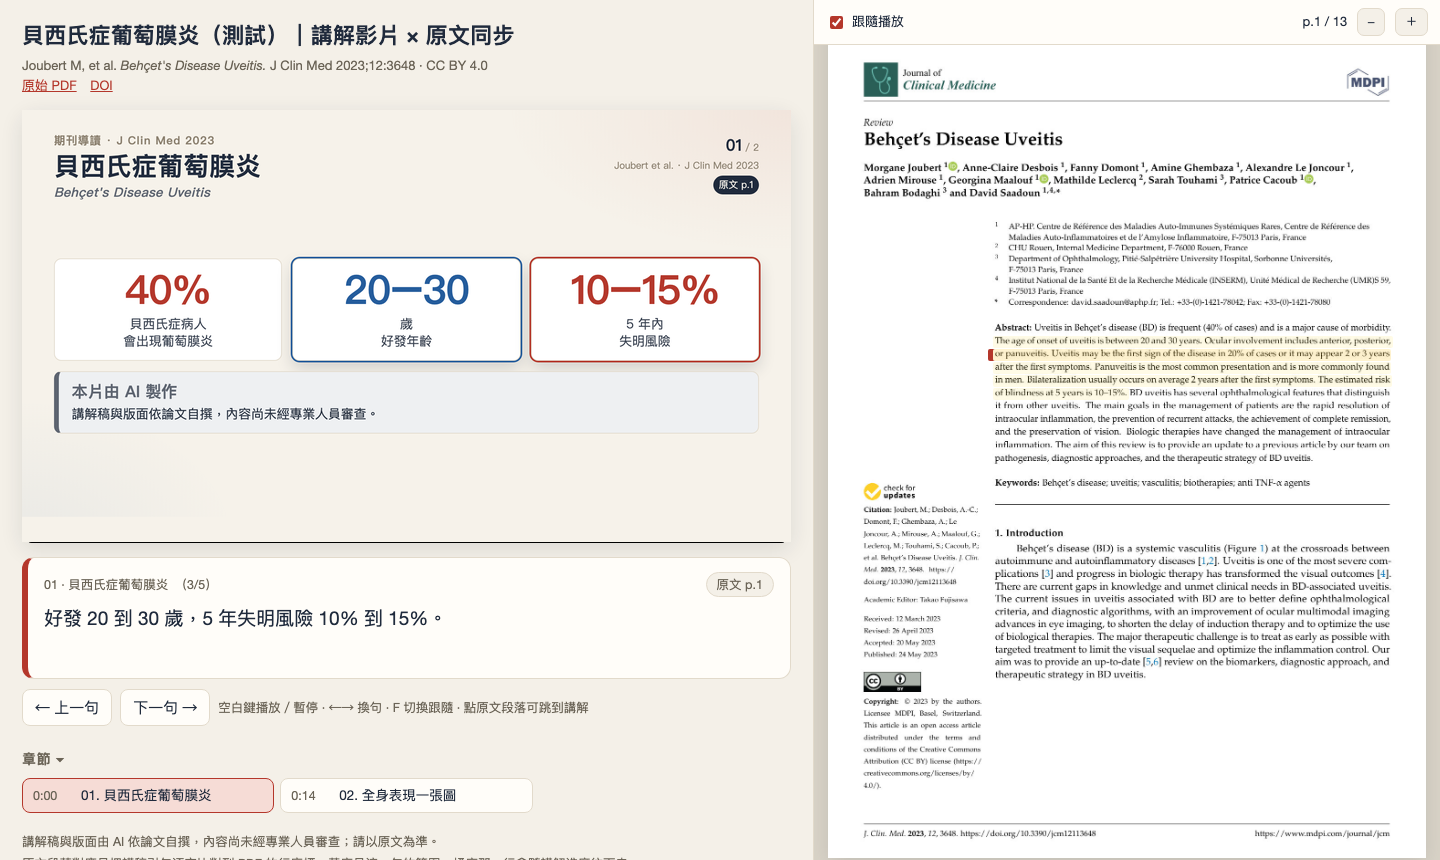
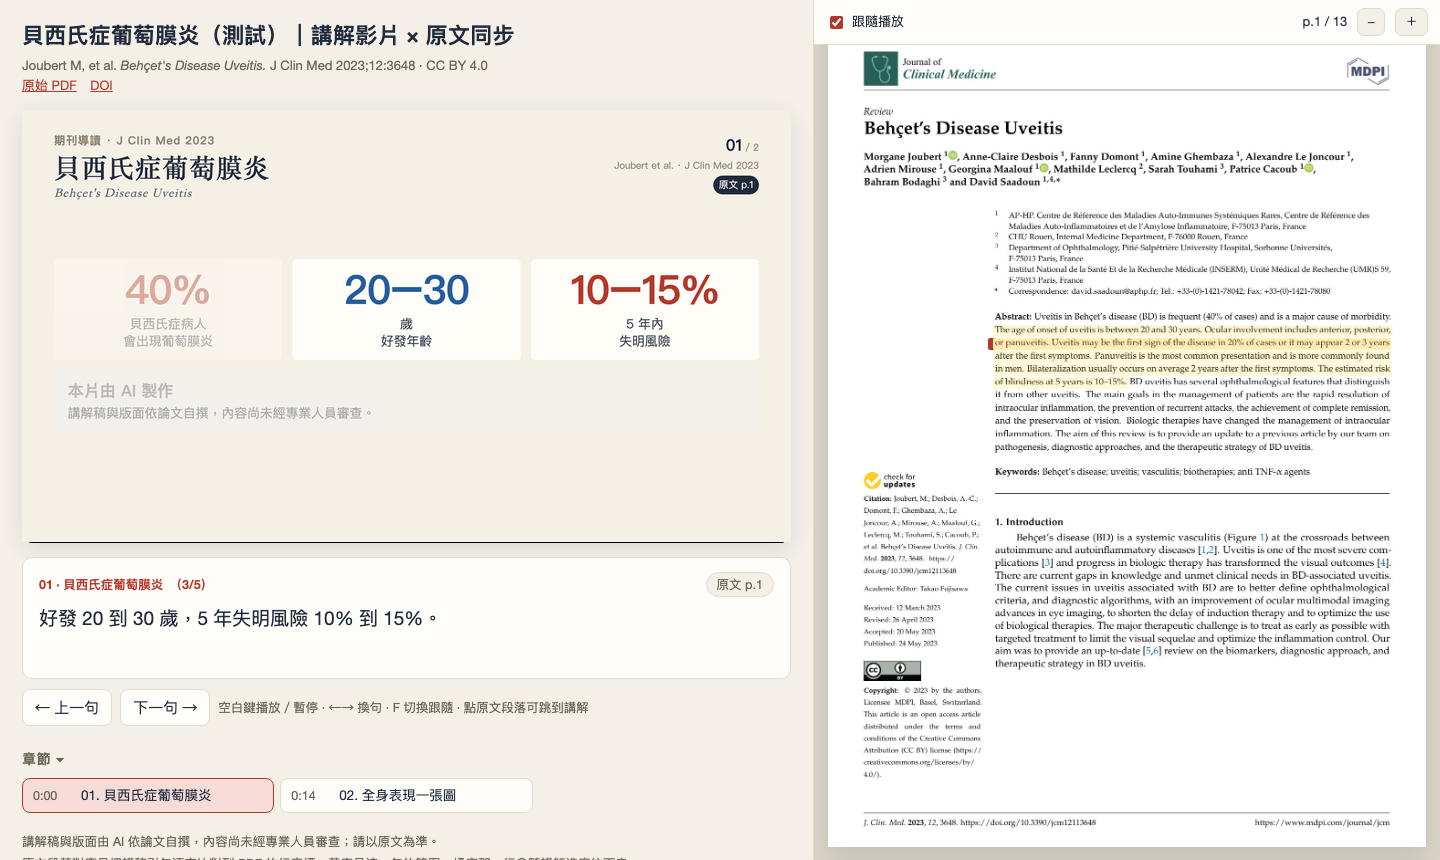
feat: 生產原則——簡潔、重點清楚、沒有 AI 味
- references/style-principles.md：濃縮 huashu-design（反 AI slop）、video-production（教學與念稿風格）、exam-explainer-video（配音後製）
- 投影片：焦點以外的元素自動變淡；拿掉卡片左色條、漸層背景、⚠ 符號；大標改襯線字
- 配音：voice.post=warm 預設套溫和後製，合成時全片音量統一到約 -18.5 LUFS
- 聊天提示詞、講稿格式、檢查清單、README 同步更新

diff --git a/templates/player.html b/templates/player.html
@@ -34,7 +34,8 @@ header .meta{color:var(--mute);font-size:13px;margin-top:4px}
 header .meta a{margin-right:10px}
 .vid{margin-top:14px;border-radius:12px;overflow:hidden;background:#000;box-shadow:var(--shadow)}
 video{display:block;width:100%;aspect-ratio:16/9;background:#000}
-.now{margin-top:14px;background:var(--panel);border:1px solid var(--line);border-left:6px solid var(--accent);border-radius:12px;padding:14px 16px}
+.now{margin-top:14px;background:var(--panel);border:1px solid var(--line);border-radius:10px;padding:14px 16px}
+.now .k span:first-child{color:var(--accent);font-weight:600}
 .now .k{font-size:12.5px;color:var(--mute);display:flex;justify-content:space-between;gap:8px;align-items:center}
 .now .t{font-size:19px;line-height:1.6;margin-top:6px;min-height:3.2em}
 .pgbtn{border:1px solid var(--line);background:var(--bg);border-radius:999px;padding:2px 10px;cursor:pointer;font-size:12.5px;white-space:nowrap}

diff --git a/scripts/render.py b/scripts/render.py
@@ -10,14 +10,11 @@ TONES = {
 
 CSS = """
 *{margin:0;padding:0;box-sizing:border-box}
-body{width:1920px;height:1080px;overflow:hidden;background:#f6f2ea;color:#1f2a3c;
- font-family:'PingFang TC','Noto Sans TC','Heiti TC','Microsoft JhengHei','Helvetica Neue',sans-serif;position:relative}
-body:before{content:"";position:absolute;inset:0;background:
- radial-gradient(1200px 600px at 100% 0%,rgba(180,55,43,.07),transparent 60%),
- radial-gradient(900px 600px at 0% 100%,rgba(36,92,156,.06),transparent 60%)}
+body{width:1920px;height:1080px;overflow:hidden;background:#f5f0e6;color:#1f2a3c;
+ font-family:'PingFang TC','Noto Sans TC','Heiti TC','Microsoft JhengHei',sans-serif;position:relative}
 .head{position:absolute;left:80px;right:80px;top:56px;display:flex;justify-content:space-between;align-items:flex-start;gap:40px}
 .kick{font-size:28px;letter-spacing:.06em;color:#8a7f6e;font-weight:600}
-h1{font-size:64px;font-weight:700;line-height:1.15;margin-top:8px;letter-spacing:.01em}
+h1{font-size:66px;font-weight:700;line-height:1.15;margin-top:8px;letter-spacing:.02em;font-family:'Songti TC','Noto Serif TC','Source Han Serif TC',serif}
 h1 small{display:block;font-size:32px;font-weight:500;color:#5d6470;margin-top:10px;font-style:italic}
 .meta{text-align:right;font-size:24px;color:#8a7f6e;line-height:1.6;white-space:nowrap}
 .meta b{font-size:40px;color:#1f2a3c;font-weight:700;font-variant-numeric:tabular-nums}
@@ -26,19 +23,19 @@ h1 small{display:block;font-size:32px;font-weight:500;color:#5d6470;margin-top:1
 .stage.tall{top:236px;bottom:120px}
 .row{display:flex;gap:26px;align-items:stretch}
 .hid{opacity:0}
-.card{background:var(--bg);border:2px solid #e3dccf;border-left:12px solid var(--c);border-radius:18px;padding:24px 32px;flex:var(--w) 1 0;min-width:0}
+.card{background:var(--bg);border-radius:10px;padding:26px 34px;flex:var(--w) 1 0;min-width:0}
 .card h3{font-size:40px;font-weight:700;color:var(--c);line-height:1.25}
 .card p{font-size:32px;line-height:1.45;margin-top:8px;color:#26303f}
 .card p b,.note b{color:var(--c)}
-.focus{box-shadow:0 0 0 4px var(--c),0 18px 40px rgba(31,42,60,.18);border-color:var(--c)}
-.stat{flex:var(--w) 1 0;text-align:center;background:#fff;border:2px solid #e3dccf;border-radius:18px;padding:26px 18px;display:flex;flex-direction:column;justify-content:center}
+.dim{opacity:.38}
+.stat{flex:var(--w) 1 0;text-align:center;background:#fffdf8;border-radius:10px;padding:26px 18px;display:flex;flex-direction:column;justify-content:center}
 .stat .n{font-size:100px;font-weight:800;color:var(--c);line-height:1;font-variant-numeric:tabular-nums;letter-spacing:-.02em}
 .stat .l{font-size:32px;line-height:1.35;margin-top:14px;color:#3a4352}
 .chip{flex:1 1 0;white-space:nowrap;text-align:center;font-size:50px;font-weight:800;color:var(--c);background:var(--bg);border:3px solid var(--c);border-radius:999px;padding:22px 10px}
 .arrow{flex:0 0 auto;align-self:center;font-size:64px;color:#9a8f7c;font-weight:700}
-.note{flex:1 1 0;background:#fff6dd;border:2px dashed #c99a2e;border-radius:18px;padding:22px 30px;font-size:34px;line-height:1.45;color:#5a3d00;display:flex;align-items:center;gap:18px}
-.note:before{content:"⚠";font-size:48px}
-.group{flex:var(--w) 1 0;background:#fff;border:2px solid #e3dccf;border-radius:18px;padding:24px 34px;display:flex;flex-direction:column;gap:18px;justify-content:center}
+.note{flex:1 1 0;background:#f6ead2;border-radius:10px;padding:22px 30px;font-size:34px;line-height:1.45;color:#5a3d00;display:flex;align-items:baseline;gap:22px}
+.note:before{content:"注意";flex:0 0 auto;font-size:26px;font-weight:700;letter-spacing:.2em;color:#a36a00}
+.group{flex:var(--w) 1 0;background:#fffdf8;border-radius:10px;padding:24px 34px;display:flex;flex-direction:column;gap:18px;justify-content:center}
 .group>h4{font-size:34px;color:#5d6470;font-weight:700}
 .stack{flex:var(--w) 1 0;display:flex;flex-direction:column;gap:20px;min-width:0}
 .stack>.card{flex:1 1 auto}
@@ -54,14 +51,13 @@ h1 small{display:block;font-size:32px;font-weight:500;color:#5d6470;margin-top:1
 .pts .bx i.o{background:transparent;border:3px dashed #d8cfbf}
 .pts .v{width:120px;font-size:40px;font-weight:800;color:var(--c);text-align:right}
 .bar.focus,.pts.focus{background:var(--bg)}
-.quiz{flex:1 1 0;background:#fff;border:2px solid #e3dccf;border-radius:18px;padding:24px 30px;display:grid;grid-template-columns:1fr 132px;gap:6px 24px;align-items:center}
+.quiz{flex:1 1 0;background:#fffdf8;border-radius:10px;padding:24px 30px;display:grid;grid-template-columns:1fr 132px;gap:6px 24px;align-items:center}
 .quiz .src{grid-column:1/3;font-size:28px;color:#8a7f6e;font-weight:600}
 .quiz .stem{font-size:36px;font-weight:700;line-height:1.35}
 .quiz .ans{grid-row:2/4;grid-column:2;width:132px;height:132px;border-radius:50%;background:#b4372b;color:#fff;font-size:60px;font-weight:800;display:flex;align-items:center;justify-content:center}
 .quiz .why{font-size:31px;line-height:1.45;color:#26303f}
 .quiz .why b{color:#b4372b}
-.quiz.focus{box-shadow:0 0 0 4px #b4372b,0 18px 40px rgba(31,42,60,.18)}
-.fig{flex:var(--w) 1 0;min-width:0;background:#fff;border:2px solid #e3dccf;border-radius:18px;padding:16px;display:flex;flex-direction:column;align-items:center;justify-content:center;gap:10px}
+.fig{flex:var(--w) 1 0;min-width:0;background:#fff;border-radius:10px;padding:16px;display:flex;flex-direction:column;align-items:center;justify-content:center;gap:10px}
 .fig img{max-width:100%;max-height:520px;object-fit:contain}
 .fig figcaption{font-size:24px;color:#6b6457}
 .svg{flex:var(--w) 1 0;display:flex;align-items:center;justify-content:center}
@@ -77,7 +73,8 @@ def tone_vars(t, w=1):
 def render_el(el, vis, foc, proj):
     k, i = el["k"], el.get("id", "")
     shown = i in vis
-    cls = ("" if shown else " hid") + (" focus" if i in foc else "")
+    # 焦點以外、已出現的元素變淡；focus 為空（例如整幕總結）時全部保持清楚
+    cls = (" hid" if not shown else (" focus" if i in foc else (" dim" if foc and i else "")))
     if k == "card":
         body = f"<p>{el['b']}</p>" if el.get("b") else ""
         return f'<div class="card{cls}" {tone_vars(el.get("tone", "ink"), el.get("w", 1))}><h3>{el["h"]}</h3>{body}</div>'

diff --git a/scripts/pe.py b/scripts/pe.py
@@ -43,7 +43,7 @@ DEFAULT_CFG = {
     "pdf": "src/paper.pdf",
     "pdf_body": {"header": 0.06, "footer": 0.94, "end_page": None, "stop_at_references": True},
     "page_images": {"scale": 2.2},
-    "voice": {"engine": "say", "voice": "Meijia", "rate": 205, "command": None, "files_dir": "voice-in"},
+    "voice": {"engine": "say", "voice": "Meijia", "rate": 205, "command": None, "files_dir": "voice-in", "post": "warm"},
     "video": {"fps": 30, "gap": 0.40, "gap_scene_end": 0.95, "lead": 0.30, "xfade": 0.40, "xfade_scene": 0.55},
     "disclaimer": "講解稿與版面由 AI 依論文自撰，內容尚未經專業人員審查；請以原文為準。",
     "publish": {"include_pdf": True, "max_mb": 15},
@@ -329,6 +329,15 @@ def synth(p, st, raw):
     die(f"未知的 voice.engine：{eng}（say／edge／command／files／none）")
 
 
+# 溫和後製（取自 exam-explainer-video 的護耳鏈，去掉降調）：去低頻、去齒音、切刺耳高頻、補一點暖、輕壓縮
+POST = {
+    "none": "",
+    "warm": ("highpass=f=60,deesser=i=0.5:m=0.5:f=0.45,lowpass=f=9200,"
+             "equalizer=f=150:t=q:w=1:g=2,equalizer=f=5000:t=q:w=1.2:g=-3,"
+             "acompressor=threshold=-22dB:ratio=2:attack=5:release=80,"),
+}
+
+
 def cmd_voice(p, only=None):
     vc = p.cfg["video"]
     fps = vc["fps"]
@@ -348,8 +357,9 @@ def cmd_voice(p, only=None):
         tail = vc["gap_scene_end"] if st["last"] else vc["gap"]
         d = lead + dur(src) + tail
         d = round(d * fps + 0.4999) / fps           # 對齊影格邊界，影音才不會累積漂移
+        post = POST.get(p.cfg["voice"].get("post", "warm"), "")
         run([tool("ffmpeg"), "-loglevel", "error", "-y", "-i", str(src), "-af",
-             f"adelay={int(lead * 1000)}:all=1,apad,atrim=0:{d:.6f},aresample=44100", "-ac", "2",
+             f"{post}adelay={int(lead * 1000)}:all=1,apad,atrim=0:{d:.6f},aresample=44100", "-ac", "2",
              str(ad / f"slide_{n:02d}.wav")])
         print(f"{n:02d} {d:6.2f}s  {st['t'][:30]}")
 
@@ -426,8 +436,10 @@ def cmd_video(p):
     run([ff, "-loglevel", "error", "-y", "-f", "concat", "-safe", "0", "-i", str(p.tmp / "concat_a.txt"),
          "-c", "pcm_s16le", str(p.tmp / "audio_full.wav")])
     out = p.vid / "video.mp4"
+    af = (["-af", "loudnorm=I=-18.5:TP=-1.8:LRA=9,alimiter=limit=0.9,aresample=44100"]
+          if p.cfg["voice"].get("post", "warm") != "none" else [])   # 全片統一音量
     run([ff, "-loglevel", "error", "-y", "-i", str(p.tmp / "video_only.mp4"), "-i", str(p.tmp / "audio_full.wav"),
-         "-map", "0:v", "-map", "1:a", "-c:v", "copy", "-c:a", "aac", "-b:a", "192k",
+         "-map", "0:v", "-map", "1:a", *af, "-c:v", "copy", "-c:a", "aac", "-b:a", "192k",
          "-movflags", "+faststart", "-shortest", str(out)])
     real = [round(dur(c) * fps) / fps for c in clips]   # 時間軸用實際片長，不用推算
     t, timeline = 0.0, []

diff --git a/references/style-principles.md b/references/style-principles.md
@@ -1,0 +1,64 @@
+# 生產原則：簡潔、重點清楚、沒有 AI 味
+
+濃縮自三個 skill：huashu-design（反 AI slop、動畫品味）、video-production（教學風格、TTS 寫法）、exam-explainer-video（配音後製）。**寫講稿前讀一次，交付前用最後的自檢表過一次。**
+
+## 一句話原則
+
+> **觀眾沒讀過這篇論文。每一幕只讓他記住一件事，其他都是干擾。**
+
+## 1. 內容：先直覺、再數字、少即是多
+
+- **一幕一個重點，一句一件事。** 去掉某個元素、畫面不會變差，就刪掉它。
+- **先講結論，再給數字**；數字只留會推進故事的那幾個，其他換成白話（「約一半」「比對照組多三成」）。
+- **術語第一次出現就用一句白話解釋**，之後同一支影片不再解釋；英文縮寫第一次念全名，之後改中文。
+- **用論文的真圖表**（`pe.py crop`），不要自己畫示意插圖。沒有合適的圖，就用一行大字講清楚。
+- **不編數字、不編引言**：每個數字都要有原文錨點；論文沒寫的，寧可不說。
+- **結尾用「我」講心得**（我讀完學到什麼、會怎麼用），不要旁觀者式的空泛總評。
+
+## 2. 畫面：克制，把重點標出來
+
+- **焦點＝其他元素變淡**：這句在講的元素保持清楚，其餘自動降到 40% 透明度。工具已內建：`focus` 省略時＝這句新出現的元素；整幕總結時設 `"focus": []` 讓全部恢復。
+- **不要 AI 味的視覺簽名**：
+
+| 不要 | 為什麼 | 改成 |
+|---|---|---|
+| 圓角卡片＋左側彩色粗邊 | AI 預設產物，沒有任何識別度 | 淡色底＋標題字重對比，或乾脆不分卡片 |
+| 滿版漸層背景 | 「科技感」萬用公式 | 帶一點暖色的單一底色 |
+| emoji 當圖示（🚀 ✨ 💡 ⚠） | 不專業的填空 | 文字標籤（「注意」「陷阱」） |
+| 每個標題都配圖示 | 像玩具 | 不配 |
+| 自己畫的 SVG 人物、器官、場景 | 一眼就是 AI 畫的 | 論文原圖，或一行大字 |
+| 假數據裝飾的數字卡 | 「data slop」 | 只放論文裡真的有、而且這幕要講的數字 |
+
+- **一個細節做到 120%，其他 80%**：例如整支影片只有關鍵結果那一幕用大數字，其他幕用卡片或條列。
+- **字型層次**：大標用襯線（宋體／Noto Serif TC），內文用無襯線；數字用等寬數字。
+- **一個強調色貫穿**（預設紅棕），其他顏色只用來分類，不用來裝飾。
+
+## 3. 節奏：讓觀眾來得及看見
+
+- **關鍵數字出現前停半拍**：重要數字單獨一句，念完才出現下一個元素。
+- **均勻節奏是技術示範，有快有慢才是敘事**：背景與方法可以快，主要結果與限制要慢。
+- **收尾停在最後一幀**，不要淡出成黑畫面（工具預設幕末停 0.95 秒）。
+
+## 4. 念稿：寫給耳朵聽
+
+- **一句 15–35 字**，超過就拆；逗號只放在自然換氣點，太密會變成碎念。
+- **數字、百分比、單位、符號一律寫成念法**：40% →「百分之四十」；HR 0.62 →「風險比零點六二」；135,000 →「十三萬五千」。
+- **不要括號、斜線**；英文縮寫第一次念全名或中文；「AI」寫成「人工智慧」。
+- **破音字要換詞**：重、長、行、還、得、調、傳…念錯就換說法。
+- **先在腦中念一遍**：念起來拗口的句子，聽起來一定更拗口。
+
+## 5. 聲音：乾淨、不刺耳
+
+- 工具預設會套一條溫和的後製（`voice.post: "warm"`）：去低頻雜音、去齒音、切刺耳高頻、低頻稍微補暖、輕壓縮；合成影片時再統一音量（約 −18.5 LUFS、峰值 −1.8 dB 以下）。
+- 不想要就設 `"post": "none"`。真人錄音也適用這條後製。
+- 語速：Meijia 約 190–210；edge 的曉臻建議 `-8%`。
+
+## 交付前自檢（30 秒）
+
+- [ ] 每一幕能用一句話說出「這幕要觀眾記住什麼」？
+- [ ] 有沒有哪個元素拿掉也不會怎樣？→ 拿掉
+- [ ] 每一句只有一個焦點，其他元素有變淡？
+- [ ] 沒有 emoji、左色條卡片、漸層背景、自畫插圖、假數據？
+- [ ] 關鍵數字是單獨一句、而且有原文錨點？
+- [ ] 念稿裡沒有阿拉伯數字、括號、斜線、未解釋的縮寫？
+- [ ] 隨機聽三句：像人在講話，不像在念清單？

diff --git a/references/script-format.md b/references/script-format.md
@@ -25,7 +25,7 @@
 | `s` | 念稿 | 省略時同 `t`。凡是數字、百分比、單位、符號、縮寫，都改成念得出來的樣子：「40%」→「百分之四十」、「HR 0.62」→「風險比零點六二」、「≥ 4」→「四分以上」、「mg/kg」→「每公斤幾毫克」 |
 | `a` | 原文錨點 | 見下表；**每個數字都要有錨點** |
 | `show` | 這句浮現的元素 id | 會累加：之前出現的元素會一直留著 |
-| `focus` | 這句要框起來強調的元素 | 省略時＝`show` |
+| `focus` | 這句的焦點 | 省略時＝`show`；**焦點以外已出現的元素會自動變淡**。整幕總結要全部清楚時寫 `"focus": []` |
 
 ## 錨點 `a`
 
@@ -61,6 +61,8 @@
 - 每個元素都要有唯一的 `id`（`stack` 除外）。
 
 ## 寫作規則（繁體中文自然口語）
+
+完整的生產原則（簡潔、重點、沒有 AI 味）見 [style-principles.md](style-principles.md)。
 
 1. **一句一件事**。觀眾邊看邊聽，一句只講一個概念或一個數字。
 2. **先講結論再講數字**：「這個藥比較有效：一年緩解率百分之七十，對照組百分之四十三。」

diff --git a/chat/PROMPT.md b/chat/PROMPT.md
@@ -102,6 +102,16 @@
 | group | h, els | 帶標題的框，els 放 bar／pts |
 | stack | els | 直向堆疊（不需要 id） |
 
+**風格原則（簡潔、重點清楚、沒有 AI 味）**
+
+- 觀眾沒讀過這篇論文：每一幕只讓他記住一件事；去掉不會變差的元素就刪掉。
+- 先講結論、再給數字；數字只留會推進故事的，其他換成白話。
+- `focus` 省略時＝這句新出現的元素，**其餘已出現的元素會自動變淡**；整幕總結要全部清楚時寫 `"focus": []`。
+- 不要 emoji、不要每個標題配圖示、不要編造的裝飾數字；一支影片只有關鍵結果那幕用大數字。
+- 關鍵數字單獨一句；背景與方法可快，主要結果與限制要慢。
+- 念稿一句 15–35 字、逗號只放在換氣處；「AI」寫成「人工智慧」；破音字換詞。
+- 結尾用第一人稱講「我讀完學到什麼」，不要空泛總評。
+
 **寫作規則**
 
 1. 一幕 3–6 句、最多 3 列元素；一句只講一件事。

diff --git a/README.md b/README.md
@@ -50,6 +50,15 @@ Gemini CLI 會讀 [`GEMINI.md`](GEMINI.md)、Codex 會讀 [`AGENTS.md`](AGENTS.m
 
 ---
 
+## 生產原則：簡潔、重點清楚、沒有 AI 味
+
+[`references/style-principles.md`](references/style-principles.md) 濃縮自 huashu-design（反 AI slop）、video-production（教學與念稿風格）與 exam-explainer-video（配音後製）：
+
+- **一幕一個重點，一句一件事**；先講結論再給數字，數字只留會推進故事的
+- **焦點以外的元素自動變淡**，觀眾永遠知道現在在看哪裡
+- **不要 AI 味的視覺**：emoji、左色條卡片、漸層背景、自畫插圖、假數據
+- **念稿寫給耳朵**：數字寫念法、不用括號、一句 15–35 字；配音預設套溫和後製
+
 ## 需要什麼
 
 | 項目 | 說明 |

diff --git a/references/qa-checklist.md b/references/qa-checklist.md
@@ -7,9 +7,14 @@
 - [ ] 片頭有「AI 製作、未經專業審查」聲明，播放頁 disclaimer 也有
 - [ ] 沒有病人可識別資料、私人筆記
 
+## 風格（詳見 style-principles.md）
+- [ ] 每一幕能用一句話說出「要觀眾記住什麼」
+- [ ] 沒有 emoji、左色條卡片、漸層背景、自畫插圖、假數據
+- [ ] 每句只有一個焦點，其他元素有變淡
+
 ## 投影片
 - [ ] 逐張看過 `video/slides/slide_NN.png`：沒有字被切掉、沒有元素擠出畫面
-- [ ] 每一幕最後一張，所有元素都已出現；`focus` 框到的是這句在講的東西
+- [ ] 每一幕最後一張，所有元素都已出現；沒變淡的那個正是這句在講的東西
 - [ ] 右上角「原文 p.」頁碼和這句的出處一致
 
 ## 聲音與影片

diff --git a/references/voice.md b/references/voice.md
@@ -32,6 +32,10 @@ python3 $PE export <專案>          # 產生 narration.tsv 與 voice-in/README.
 python3 $PE voice <專案> && python3 $PE video <專案> && python3 $PE page <專案>
 ```
 
+## 後製（預設開啟）
+
+`"post": "warm"`（預設）會對每句套溫和後製：去低頻雜音、去齒音、切刺耳高頻、補一點低頻暖度、輕壓縮；合成影片時再把整片音量統一到約 −18.5 LUFS。真人錄音也適用。不想要就設 `"post": "none"`。
+
 ## 讓配音聽起來自然
 
 - `s`（念稿）才是 TTS 看到的文字：數字、百分比、單位、縮寫都要改成念法（見 script-format.md）。
